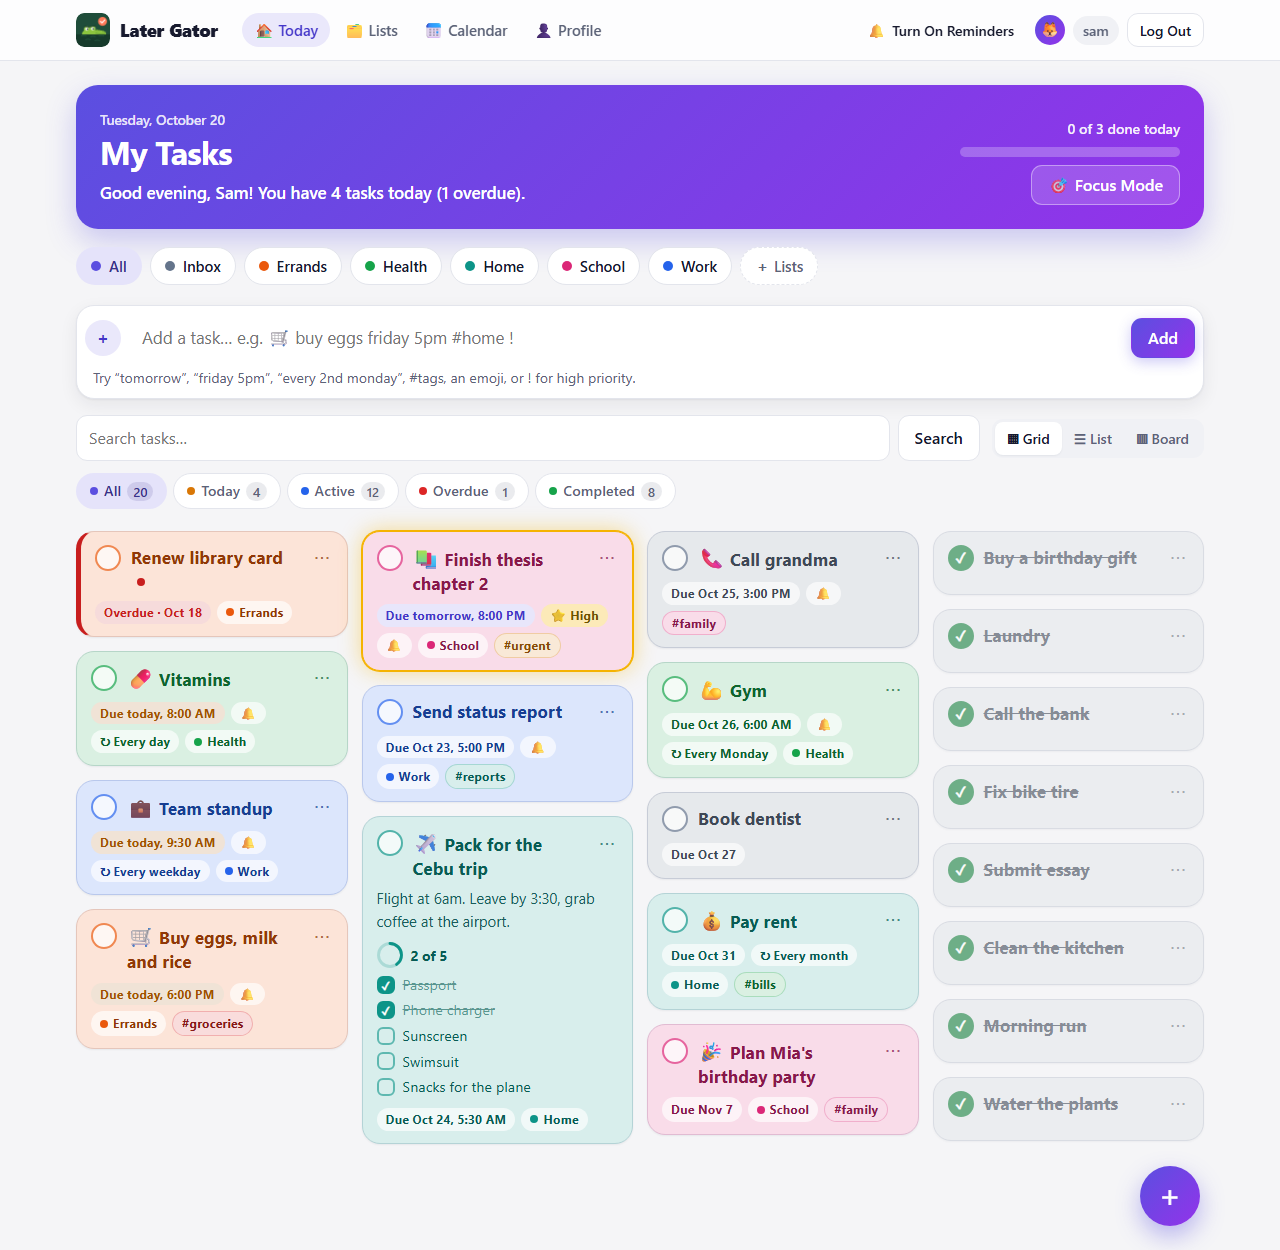
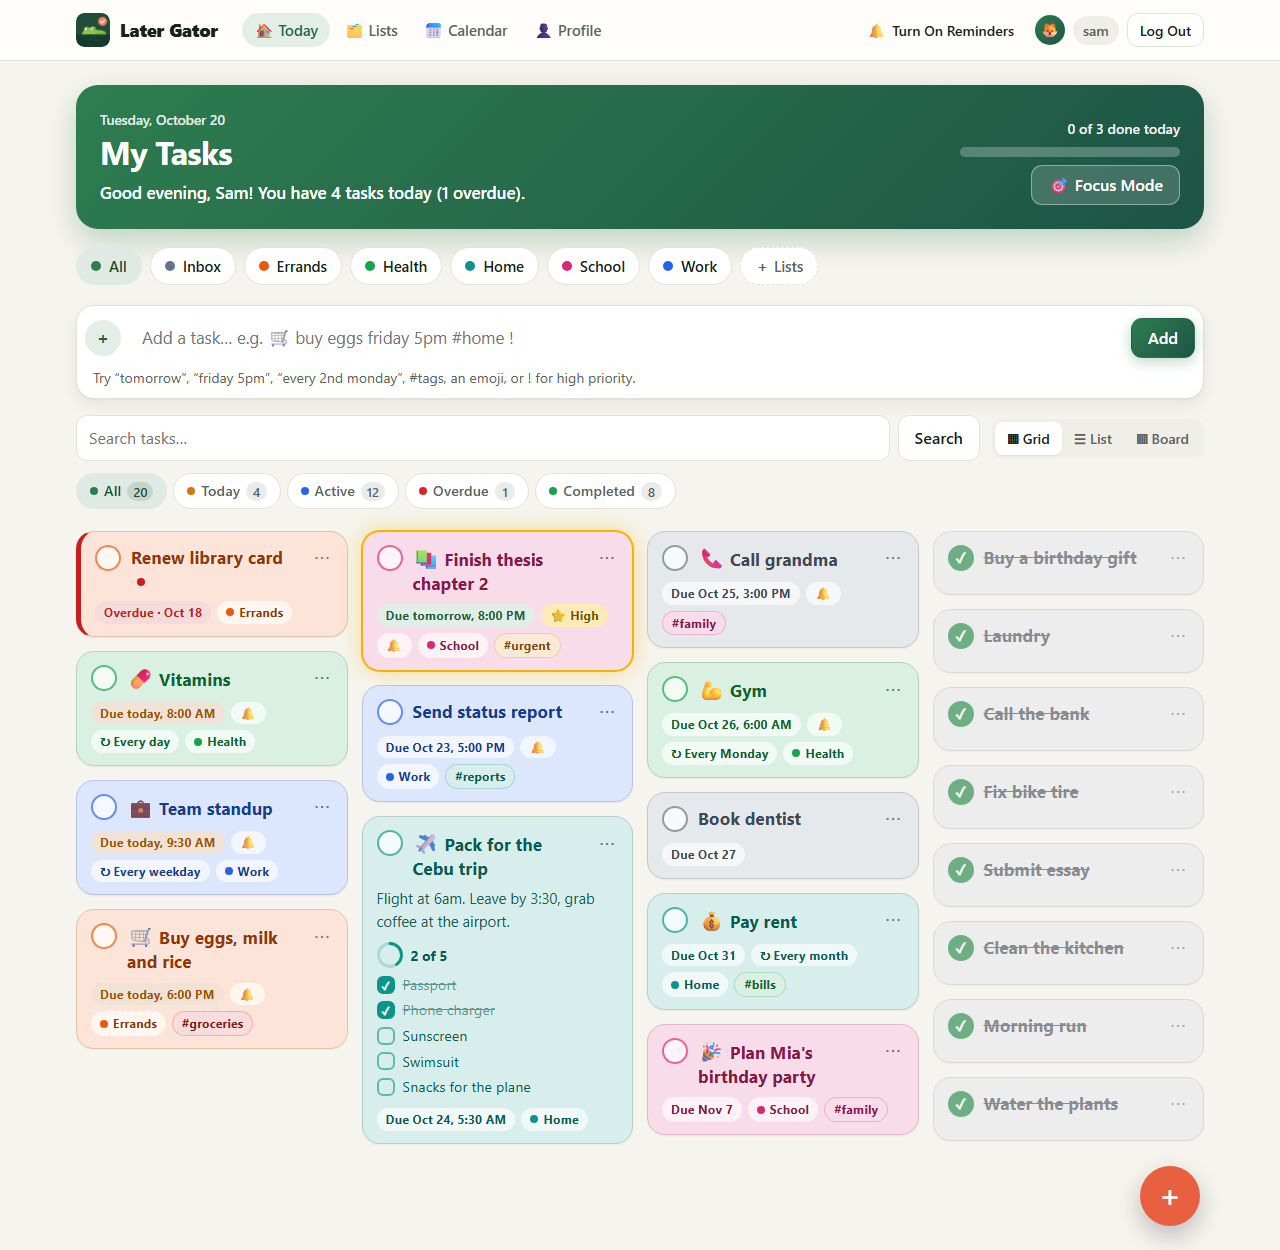
Green Gator theme, centered login page, fresh CSS after deploys
- New default theme "Gator" from the logo: forest green to deep teal,
  lime progress bars, a coral + button and a warm off-white background.
  The old purple default is still available as "Grape".
- Log in and sign up: logo, name, heading, form and link in one
  centered column, in the middle of the screen.
- Static files are linked with ?v=<last change time>, so browsers
  download new CSS and JS after a deploy instead of using an old copy.
- Theme tiles share one grid; README screenshots retaken in green.

diff --git a/todo/static/style.css b/todo/static/style.css
@@ -7,18 +7,23 @@
    ========================================================================== */
 
 :root {
-  /* Theme colors: "Grape", the default. */
-  --accent: #5b4fe0;
-  --accent-strong: #4436c9;
-  --accent-2: #9333ea;
+  /* Theme colors: "Gator", the default, taken from the logo. A grassy
+     green fading into the deep green of the water, the gator's lime for
+     progress bars, and the check mark's coral for the + button. */
+  --accent: #2e7d4f;
+  --accent-strong: #1f5f3b;
+  --accent-2: #1d5446;
+  --progress: #b5e36b;  /* the fill of the progress bar on the banner */
+  --fab: #e8603f;       /* the floating + button */
 
-  /* Light look: a neutral off-white background, so the colorful cards pop. */
-  --bg: #f5f5f7;
+  /* Light look: a warm off-white background, like the cream around the
+     logo, so the colorful cards pop. */
+  --bg: #f6f4ee;
   --surface: #ffffff;
-  --surface-2: #f0f1f5;
-  --text: #171a2e;
-  --muted: #5c6378;
-  --border: #e3e5ec;
+  --surface-2: #efeee7;
+  --text: #17221c;
+  --muted: #59645d;
+  --border: #e3e1d8;
   --danger: #c81e1e;
   --warning: #a35200;
   --success: #15803d;
@@ -55,6 +60,13 @@
 /* Each one changes only the accent colors. The darker shades keep white
    text on buttons and banners easy to read. */
 
+/* Themes other than Gator use plain white for the progress bar, and the
+   theme's own gradient for the + button. */
+[data-theme]:not([data-theme="default"]) {
+  --progress: #ffffff;
+  --fab: linear-gradient(135deg, var(--accent), var(--accent-2));
+}
+[data-theme="grape"] { --accent: #5b4fe0; --accent-strong: #4436c9; --accent-2: #9333ea; --bg: #f5f5f7; }
 [data-theme="ocean"] { --accent: #0369a1; --accent-strong: #075985; --accent-2: #0f766e; --bg: #f3f6f8; }
 [data-theme="matcha"] { --accent: #2e7d32; --accent-strong: #1b5e20; --accent-2: #4d6b12; --bg: #f5f6f0; }
 [data-theme="sunset"] { --accent: #c2410c; --accent-strong: #9a3412; --accent-2: #be185d; --bg: #f8f4f2; }
@@ -335,7 +347,7 @@ input[type="radio"] { accent-color: var(--accent); width: 18px; height: 18px; }
   display: block;
   height: 100%;
   border-radius: inherit;
-  background: #fff;
+  background: var(--progress);
   transition: width 0.4s;
 }
 .day-bar.small { height: 8px; background: color-mix(in srgb, var(--tint, var(--accent)) 18%, var(--surface-2)); }
@@ -857,8 +869,8 @@ p.flash.flash-error:not(.toast) {
   height: 60px;
   border: 0;
   border-radius: 50%;
-  background: linear-gradient(135deg, var(--accent), var(--accent-2));
-  box-shadow: 0 10px 24px color-mix(in srgb, var(--accent) 40%, transparent);
+  background: var(--fab);
+  box-shadow: 0 10px 24px rgb(var(--shadow-color) / 0.25);
   color: #fff;
   font-size: 1.9rem;
   line-height: 1;
@@ -1109,11 +1121,12 @@ p.flash.flash-error:not(.toast) {
 
 .theme-picker,
 .appearance-picker { display: flex; flex-wrap: wrap; gap: 10px; margin: 0 0 16px; padding: 0; border: 0; }
+/* A grid keeps every theme tile the same size, even one alone on the last row. */
+.theme-picker { display: grid; grid-template-columns: repeat(auto-fill, minmax(140px, 1fr)); }
 .theme-picker legend,
 .appearance-picker legend { margin-bottom: 8px; font-weight: 700; }
 .theme-option {
   display: grid;
-  flex: 1 1 120px; /* share the row evenly */
   gap: 6px;
   justify-items: center;
   align-content: start;
@@ -1126,7 +1139,13 @@ p.flash.flash-error:not(.toast) {
 .theme-option:has(input:checked) { border-color: var(--accent); }
 .theme-option.locked { cursor: not-allowed; opacity: 0.6; }
 .theme-swatch { width: 64px; height: 36px; border-radius: 10px; }
-.theme-default .theme-swatch { background: linear-gradient(135deg, #5b4fe0, #9333ea); }
+/* Gator: the green gradient, with a coral dot like the logo's check mark. */
+.theme-default .theme-swatch {
+  background:
+    radial-gradient(circle at 78% 32%, #ff7b5c 0 6px, transparent 7px),
+    linear-gradient(135deg, #2e7d4f, #1d5446);
+}
+.theme-grape .theme-swatch { background: linear-gradient(135deg, #5b4fe0, #9333ea); }
 .theme-ocean .theme-swatch { background: linear-gradient(135deg, #0369a1, #0f766e); }
 .theme-matcha .theme-swatch { background: linear-gradient(135deg, #2e7d32, #4d6b12); }
 .theme-sunset .theme-swatch { background: linear-gradient(135deg, #c2410c, #be185d); }
@@ -1185,7 +1204,20 @@ fieldset.field { padding: 0; border: 0; }
 
 /* ---------- Log in and sign up ---------- */
 
-.auth { max-width: 420px; margin: 16px auto 0; }
+/* Log in and sign up: one centered column, in the middle of the screen.
+   min-height plus justify-content: center puts it halfway down; the
+   220px is roughly the top bar and the page's padding. */
+.auth {
+  display: flex;
+  flex-direction: column;
+  justify-content: center;
+  max-width: 420px;
+  min-height: calc(100vh - 220px);
+  margin: 0 auto;
+  text-align: center;
+}
+.auth .page-head { justify-content: center; margin-bottom: 14px; }
+.auth .card { text-align: left; } /* the form itself reads best left-aligned */
 .auth .card { position: relative; overflow: hidden; padding-top: 30px; }
 .auth .card::before {
   content: "";
@@ -1195,7 +1227,7 @@ fieldset.field { padding: 0; border: 0; }
   background: linear-gradient(90deg, var(--accent), var(--accent-2));
 }
 .switch { margin-top: 16px; color: var(--muted); text-align: center; }
-.auth-brand { margin-bottom: 20px; text-align: center; }
+.auth-brand { display: grid; justify-items: center; margin-bottom: 18px; }
 .auth-brand img { border-radius: 24%; box-shadow: var(--shadow-big); }
 .auth-name { margin: 10px 0 2px; font-size: 1.6rem; font-weight: 800; letter-spacing: -0.02em; }
 .auth-brand .hint { margin: 0; }

diff --git a/tests/test_ui.py b/tests/test_ui.py
@@ -160,7 +160,31 @@ def test_old_lists_table_gets_a_color(tmp_path):
 def test_app_name_and_logo(client, guest):
     html = guest.get("/login").get_data(as_text=True)
     assert "<title>Log In · Later Gator</title>" in html
-    assert 'rel="icon" type="image/png" href="/static/logo.png"' in html
-    assert 'class="brand-logo" src="/static/logo.png"' in html
+    assert re.search(r'rel="icon" type="image/png" href="/static/logo\.png\?v=\d+"', html)
+    assert re.search(r'class="brand-logo" src="/static/logo\.png\?v=\d+"', html)
     assert '<p class="auth-name">Later Gator</p>' in html
     assert guest.get("/static/logo.png").status_code == 200
+
+
+# ---------- Gator theme, centered login, fresh static files ----------
+
+def test_static_links_carry_a_version(guest):
+    html = guest.get("/login").get_data(as_text=True)
+    # The number changes whenever the file does, so browsers fetch the new one.
+    assert re.search(r'href="/static/style\.css\?v=\d+"', html)
+    assert re.search(r'src="/static/logo\.png\?v=\d+"', html)
+
+
+def test_login_and_sign_up_use_the_centered_layout(guest):
+    for url in ["/login", "/register"]:
+        html = guest.get(url).get_data(as_text=True)
+        assert '<div class="auth">' in html
+        assert '<div class="auth-brand">' in html
+
+
+def test_gator_is_the_default_theme_and_grape_is_still_there(client, post):
+    html = client.get("/profile").get_data(as_text=True)
+    assert '<span class="theme-name">Gator</span>' in html
+    assert '<span class="theme-name">Grape</span>' in html
+    post("/profile/theme", {"theme": "grape", "appearance": "light"})
+    assert 'data-theme="grape"' in client.get("/").get_data(as_text=True)

diff --git a/todo/__init__.py b/todo/__init__.py
@@ -25,6 +25,19 @@ def create_app(test_config=None):
     if test_config:
         app.config.update(test_config)
 
+    @app.url_defaults
+    def add_static_version(endpoint, values):
+        """Add ?v=<when the file last changed> to links to static files.
+
+        Browsers keep a copy of style.css and the scripts, and may go on
+        using an old one after a deploy. A new number after each change
+        makes the link new, so the browser downloads the new file.
+        """
+        if endpoint == "static" and "filename" in values:
+            path = os.path.join(app.static_folder, values["filename"])
+            if os.path.isfile(path):
+                values["v"] = int(os.path.getmtime(path))
+
     os.makedirs(app.instance_path, exist_ok=True)
 
     from . import auth, csrf, db, lists, pages, profile, tasks

diff --git a/todo/validation.py b/todo/validation.py
@@ -41,7 +41,8 @@ SUBTASKS_MAX = 20
 # Color themes, and the best streak (days in a row with a task done) that
 # unlocks each one. A small reward for keeping at it.
 THEMES = {
-    "default": {"label": "Grape", "unlock": 0},
+    "default": {"label": "Gator", "unlock": 0},  # green, from the logo
+    "grape": {"label": "Grape", "unlock": 0},
     "ocean": {"label": "Ocean", "unlock": 0},
     "matcha": {"label": "Matcha", "unlock": 3},
     "sunset": {"label": "Sunset", "unlock": 7},

diff --git a/AGENTS.md b/AGENTS.md
@@ -15,6 +15,7 @@ Python 3.13 is at `%LOCALAPPDATA%\Programs\Python\Python313\python.exe` and is *
 ## Architecture
 
 - `todo/__init__.py` holds `create_app(test_config)`. Its config includes `DATABASE` (`instance/todo.sqlite`, which git ignores) and `TODAY`, a function returning today's date. Use `tasks.today()`, never `date.today()` directly, so tests can fix the date.
+  - `add_static_version()` adds `?v=<file change time>` to every `url_for('static', ...)` link, so browsers fetch fresh CSS and JS after a deploy. Always link static files with `url_for`.
 - `todo/db.py`: `get_db()` keeps one connection per request on `g`, with `row_factory = sqlite3.Row`. `init_db()` runs `schema.sql` on startup. The schema uses `CREATE TABLE IF NOT EXISTS`. A new column in an existing table must also go in `NEW_COLUMNS` (by table), so `add_missing_columns()` adds it to older databases with `ALTER TABLE` (new tables are created by `schema.sql` on their own).
 - `todo/auth.py` is the `auth` blueprint: `/register`, `/login` and `/logout` (POST only). Passwords are stored with werkzeug's `generate_password_hash`. Logging in puts `user_id` in the session, and `load_logged_in_user()` sets `g.user` (a row, or `None`) before every request.
 - Blueprints: `tasks` (`todo/tasks.py`: every task route, plus the shared helpers), `lists` (`todo/lists.py`: the Lists page, create, rename, color, delete) `pages` (`todo/pages.py`: Calendar and Stats) and `profile` (`todo/profile.py`: picture, display name, username, password, and theme at `POST /profile/theme`). Each one calls `bp.before_request(require_login)` from `auth.py`. Always pass SQL values as `?` placeholders.

diff --git a/README.md b/README.md
@@ -48,7 +48,7 @@ The home screen: a greeting with today's progress, list chips, quick add, and a 
 - **Focus mode**: one task at a time. Swipe right when it's done, left for later, up for tomorrow.
 - **Calendar**: a month of days with their tasks.
 - **Stats**: your streak, tasks done in the last 7 days, and progress per list.
-- **Profile**: pick a picture (an emoji), set the name your greeting uses, change your username or password, and choose a theme: Grape, Ocean, Matcha or Sunset, in light or dark. Matcha unlocks at a 3-day streak and Sunset at 7.
+- **Profile**: pick a picture (an emoji), set the name your greeting uses, change your username or password, and choose a theme: Gator (green, the default), Grape, Ocean, Matcha or Sunset, in light or dark. Matcha unlocks at a 3-day streak and Sunset at 7.
 - **Nice touches**: a greeting with today's progress bar, confetti when a task is done, a floating + button with a quick-add sheet, and a bottom bar on phones.
 - **Today view**: what's due today, plus anything late.
 - **Filter** the list with the tabs: All, Today, Active, Overdue and Completed. Each tab shows how many tasks it holds.
